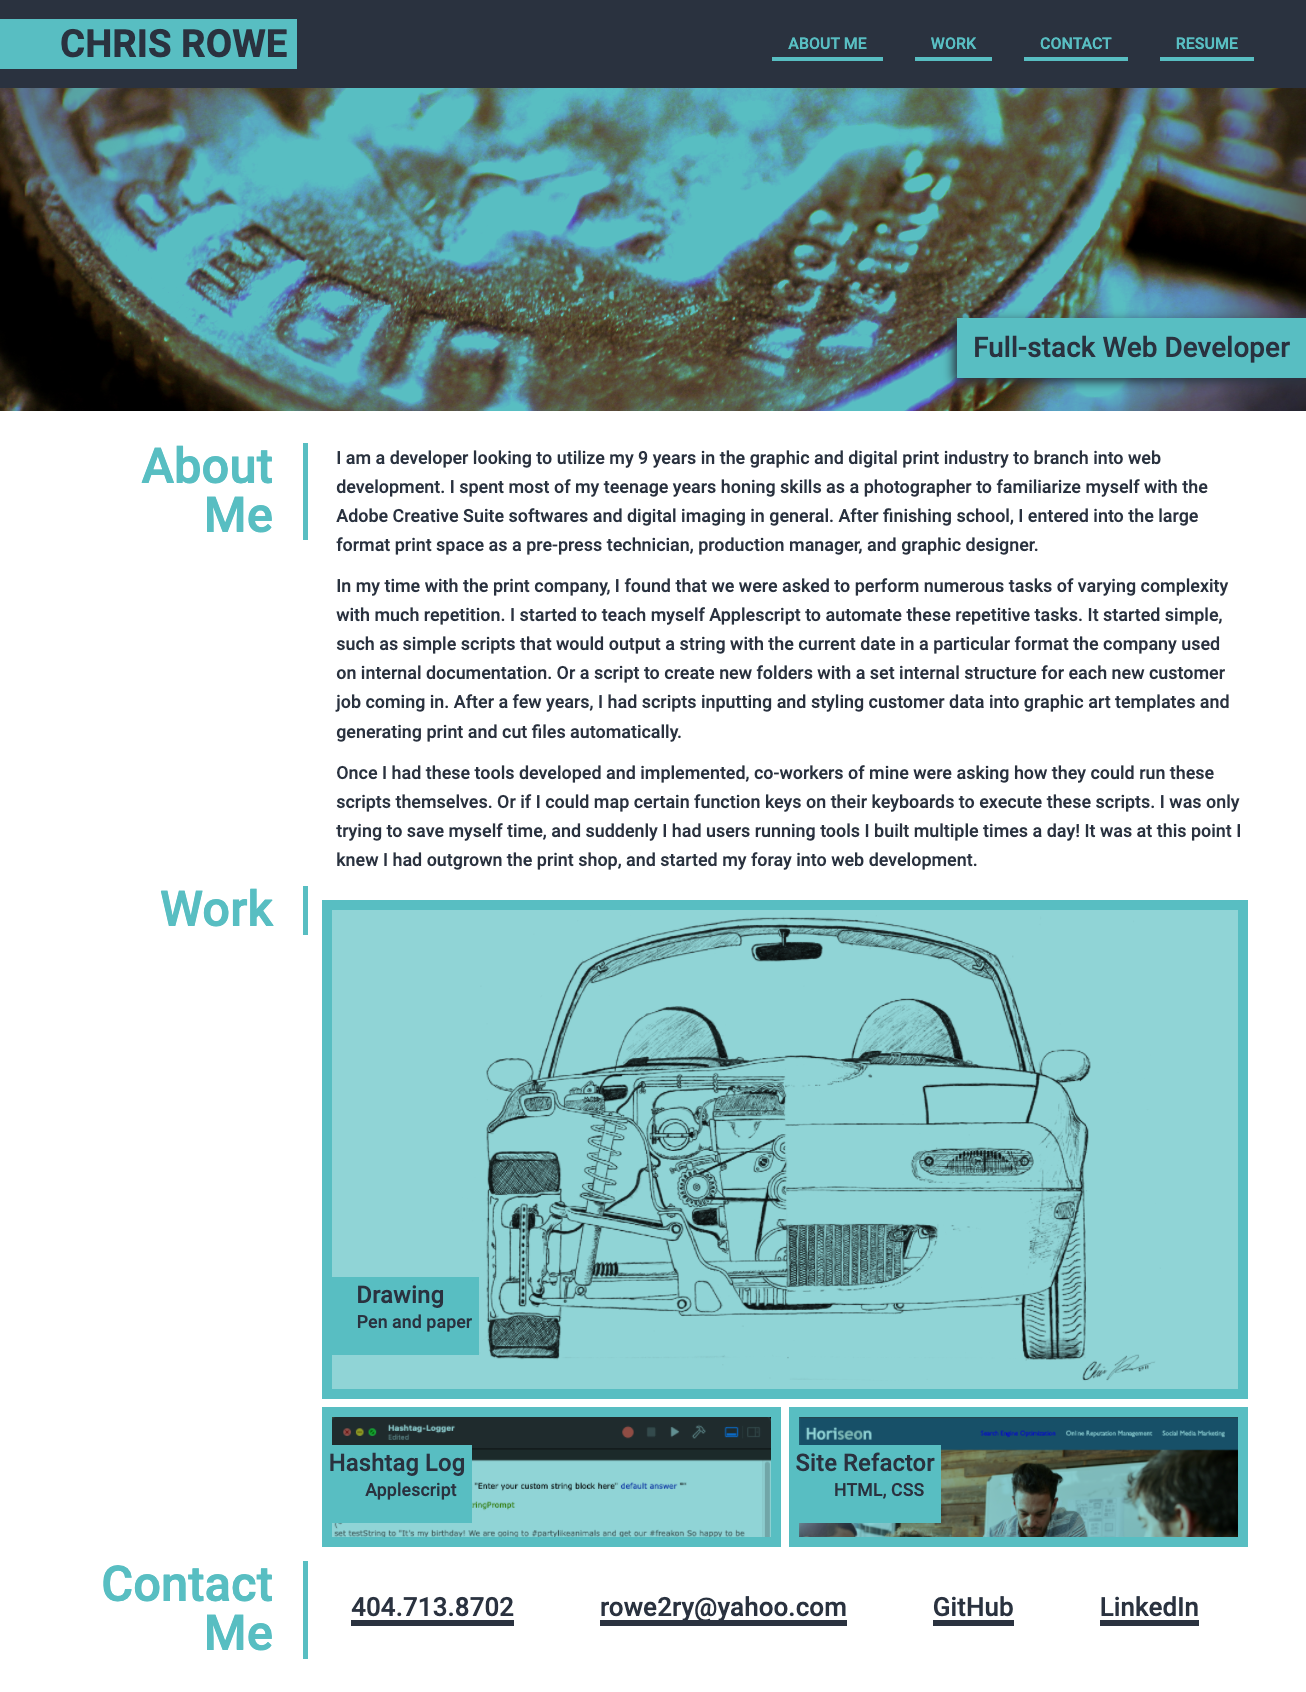
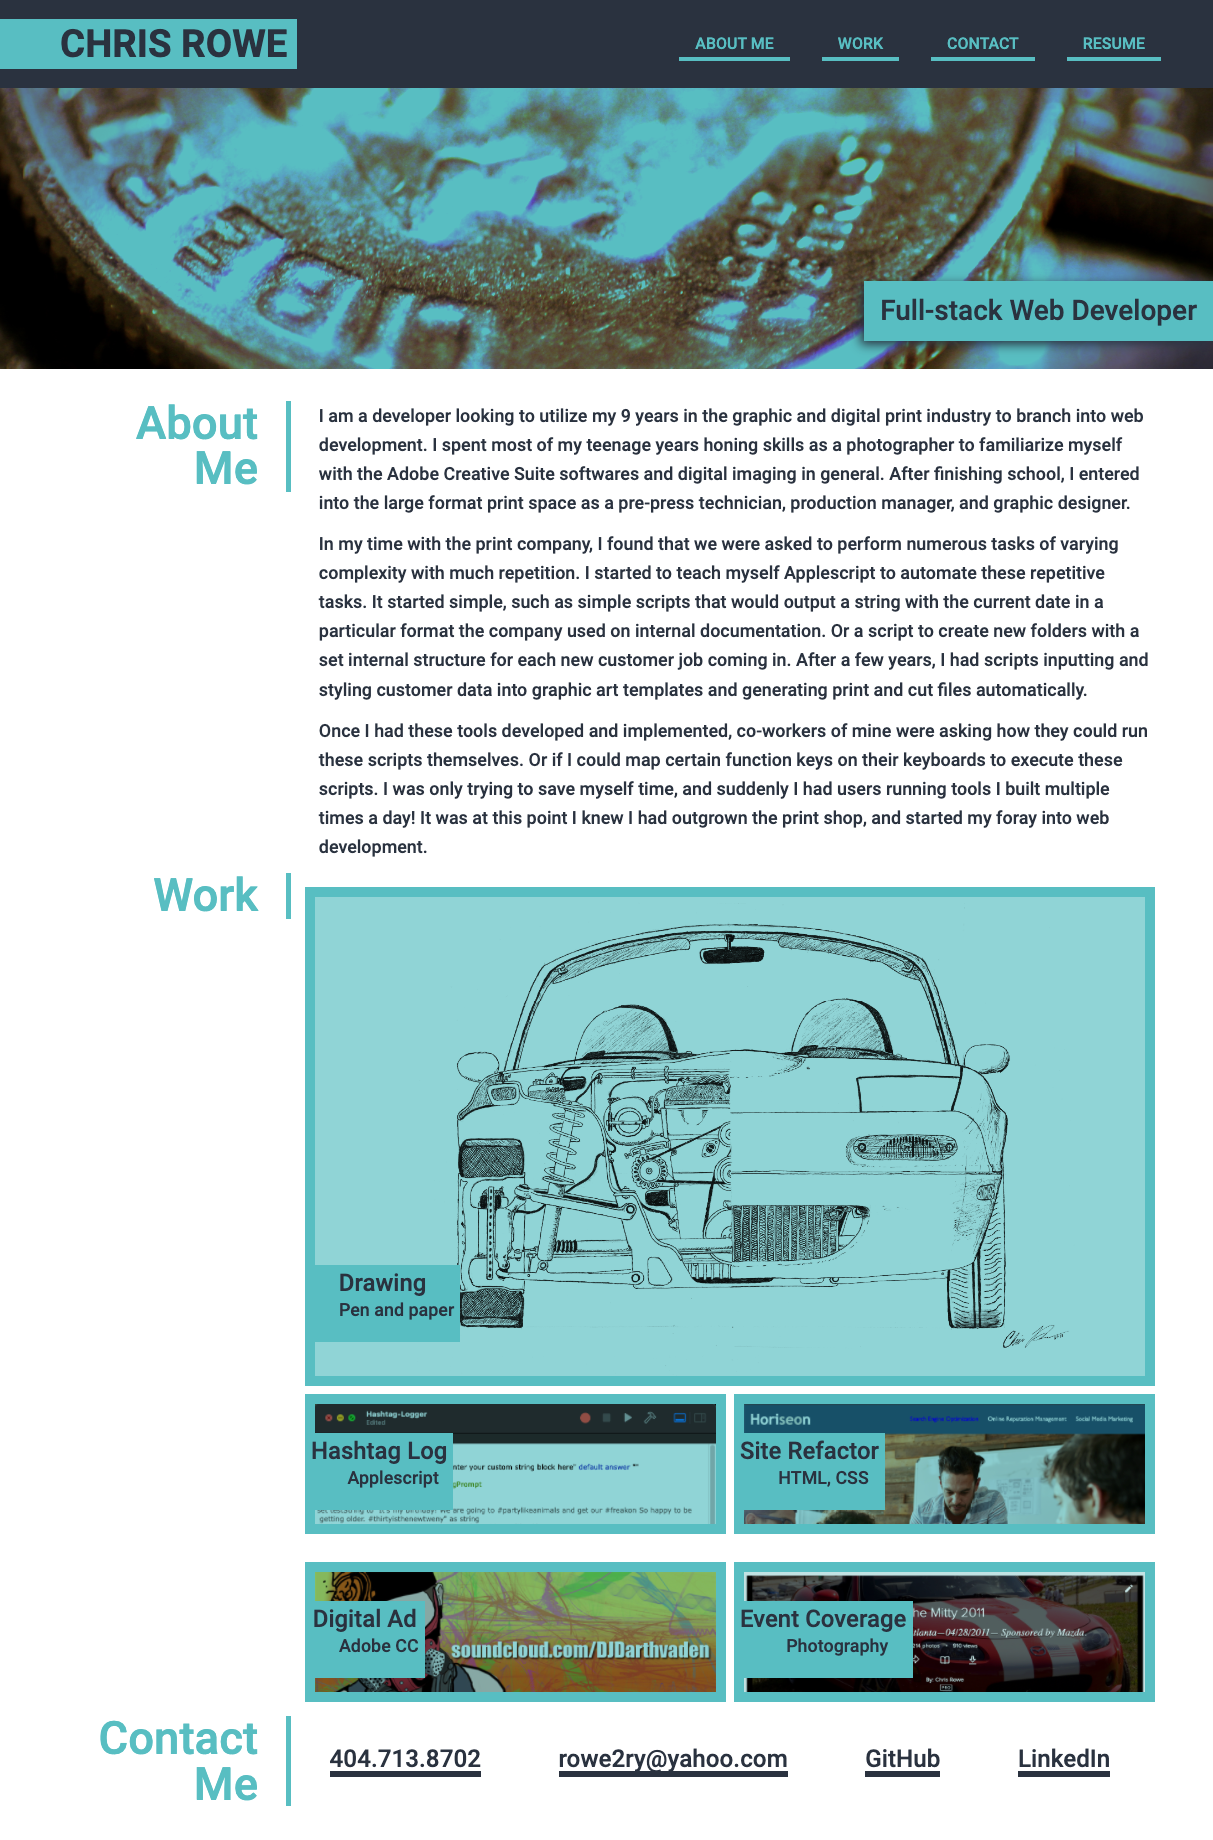
Added a 4th and 5th project to page. Updated README to reflect changes

diff --git a/index.html b/index.html
@@ -75,12 +75,20 @@
                         <p>HTML, CSS</p>
                     </figcaption>
                 </div>
-                <!-- <div class="project-thumbnails">
-                    <a href="#"><figure id="two"></figure></a>
+                <div class="project-thumbnails">
+                    <a href="https://www.flickr.com/photos/rowe2ry/5531460830/in/dateposted-public/" target="_blank"><figure id="digital-art"></figure></a>
+                    <figcaption class="img-captions">
+                        <h4>Digital Ad</h4>
+                        <p>Adobe CC</p>
+                    </figcaption>
                 </div>
                 <div class="project-thumbnails">
-                    <a href="#"><figure id="three"></figure></a>
-                </div> -->
+                    <a href="https://flic.kr/s/aHsjuzpxtg" target="_blank"><figure id="mitty"></figure></a>
+                    <figcaption class="img-captions">
+                        <h4>Event Coverage</h4>
+                        <p>Photography</p>
+                    </figcaption>
+                </div>
             </div>
         </section>
         <section id="contact-me" class="section-card">

diff --git a/assets/css/style.css b/assets/css/style.css
@@ -176,8 +176,10 @@ h3 {
     transition: 600ms;
 }
 
-#applescript {
-    background-image: url(../img/applescript.png);
+#applescript,
+#refactoring,
+#digital-art,
+#mitty {
     background-color: var(--light-trans);
     background-blend-mode: multiply;
     background-size: cover;
@@ -186,23 +188,30 @@ h3 {
     min-height: 7.5em;
     border: solid var(--light) .625em;
     transition: 600ms;
+}
+
+#applescript {
+    background-image: url(../img/applescript.png);
 }
 
 #refactoring {
     background-image: url(../img/refactor.png);
-    background-color: var(--light-trans);
-    background-blend-mode: multiply;
-    background-size: cover;
-    min-width: 100%;
-    max-width: 100%;
-    min-height: 7.5em;
-    border: solid var(--light) .625em;
-    transition: 600ms;
 }
+
+#digital-art {
+    background-image: url(../img/DJDV.jpg);
+}
+
+#mitty {
+    background-image: url(../img/Mitty.png);
+}
+
 
 #drawing:hover,
 #applescript:hover,
-#refactoring:hover {
+#refactoring:hover,
+#digital-art:hover,
+#mitty {
     background-color: var(--light-supertrans);
 }
 

diff --git a/README.md b/README.md
@@ -9,7 +9,7 @@ This project is deployed live on my GitHub. You can access it with the following
 
 ## Usage:
 
-This page is a portfolio of some of my current favorite works. At the initial publish time, this portfolio contains artwork, a script I wrote to determine which characters in a given string are part of a hashtag, and one refactoring project I have completed. As I continue to develop web projects in my journey to becoming a full stack web developer, I intend to update the projects listed here. It should be noted that the styling of this page has been **done in such a way to match a given mockup as part of an assignment** . These colors, layout, and effects are chosen to match a given layout, and are not necessarily representative of my chosen aesthetic (though I do think it all looks quite nice myself).
+This page is a portfolio of some of my current favorite works. At the initial publish time, this portfolio contains artwork, a script I wrote to determine which characters in a given string are part of a hashtag, one refactoring project I have completed, a digital advertisement I constructed, and a Photographic coverage even I did for Mazda USA. As I continue to develop web projects in my journey to becoming a full stack web developer, I intend to update the projects listed here. It should be noted that the styling of this page has been **done in such a way to match a given mockup as part of an assignment** . These colors, layout, and effects are chosen to match a given layout, and are not necessarily representative of my chosen aesthetic (though I do think it all looks quite nice myself).
 
 ### Project Preview
 
